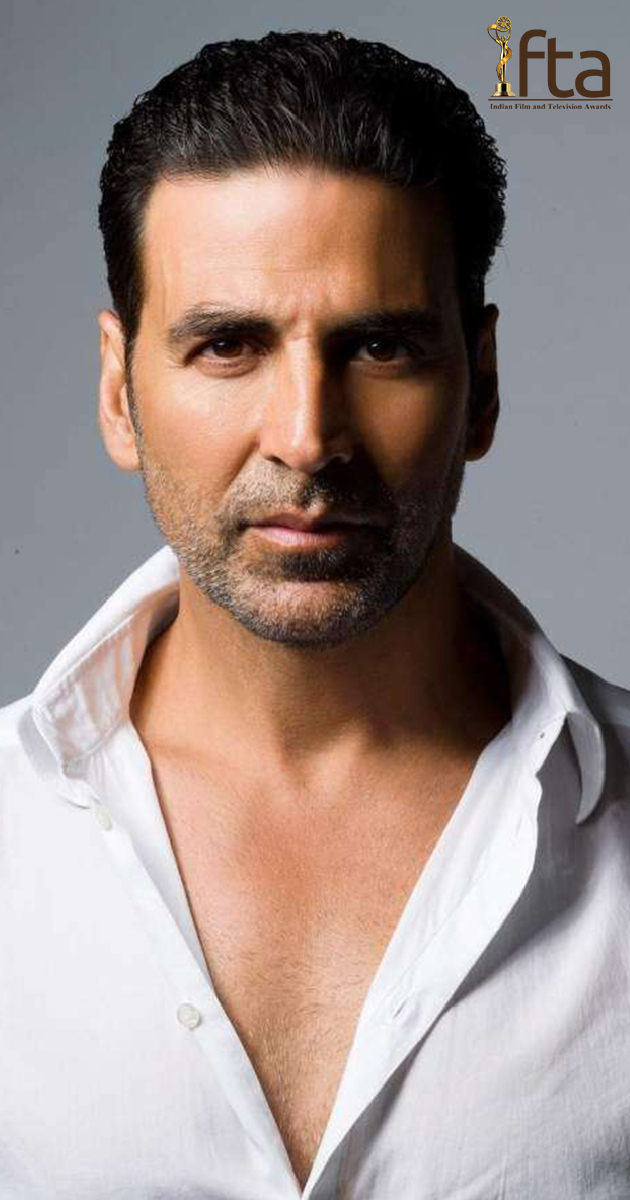
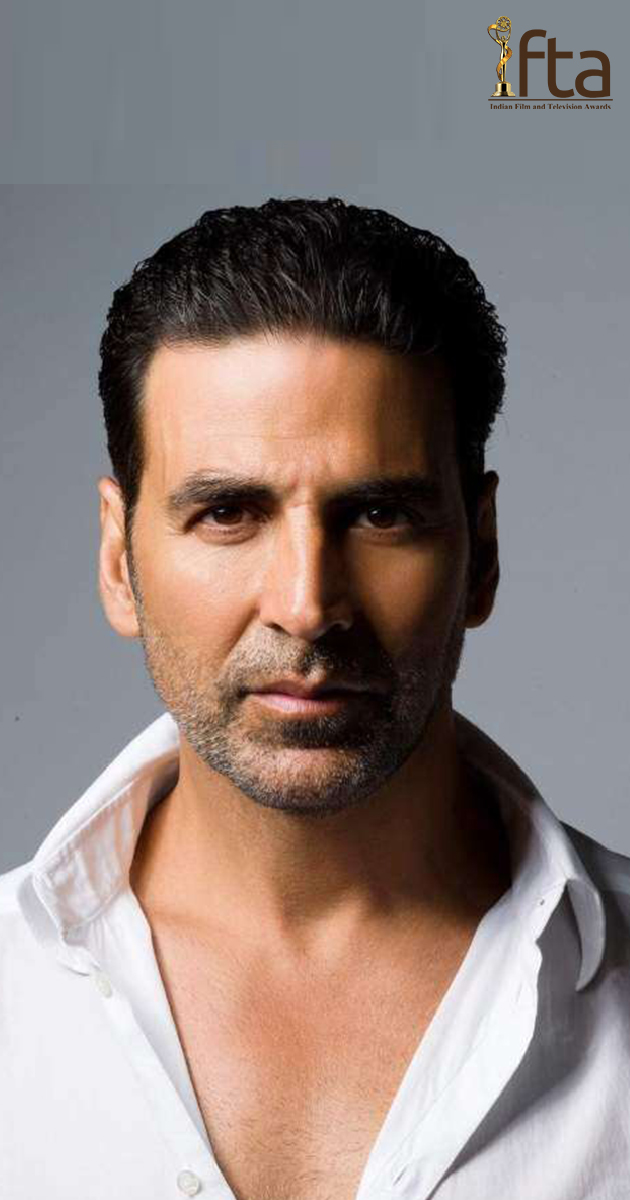
new images

diff --git a/src/components/Home/GridImages/Grid.js b/src/components/Home/GridImages/Grid.js
@@ -6,7 +6,7 @@ function importAll(r) {
     return images
 }
 
-const bigImages = importAll(require.context('../../../images/gridLong', false, /\.(png|jpe?g|svg)$/));
+const bigImages = importAll(require.context('../../../images/gridLong2', false, /\.(png|jpe?g|svg)$/));
 const smallImages = importAll(require.context('../../../images/gridSmall', false, /\.(png|jpe?g|svg)$/));
 
 let x1 = [];

diff --git a/src/components/Home/GridImages/GridImages.js b/src/components/Home/GridImages/GridImages.js
@@ -8,7 +8,7 @@ function importAll(r) {
   return images
 }
 
-const bigImages = importAll(require.context('../../../images/gridLong', false, /\.(png|jpe?g|svg)$/));
+const bigImages = importAll(require.context('../../../images/gridLong2', false, /\.(png|jpe?g|svg)$/));
 const smallImages = importAll(require.context('../../../images/gridSmall', false, /\.(png|jpe?g|svg)$/));
 
 let x1 = [];
